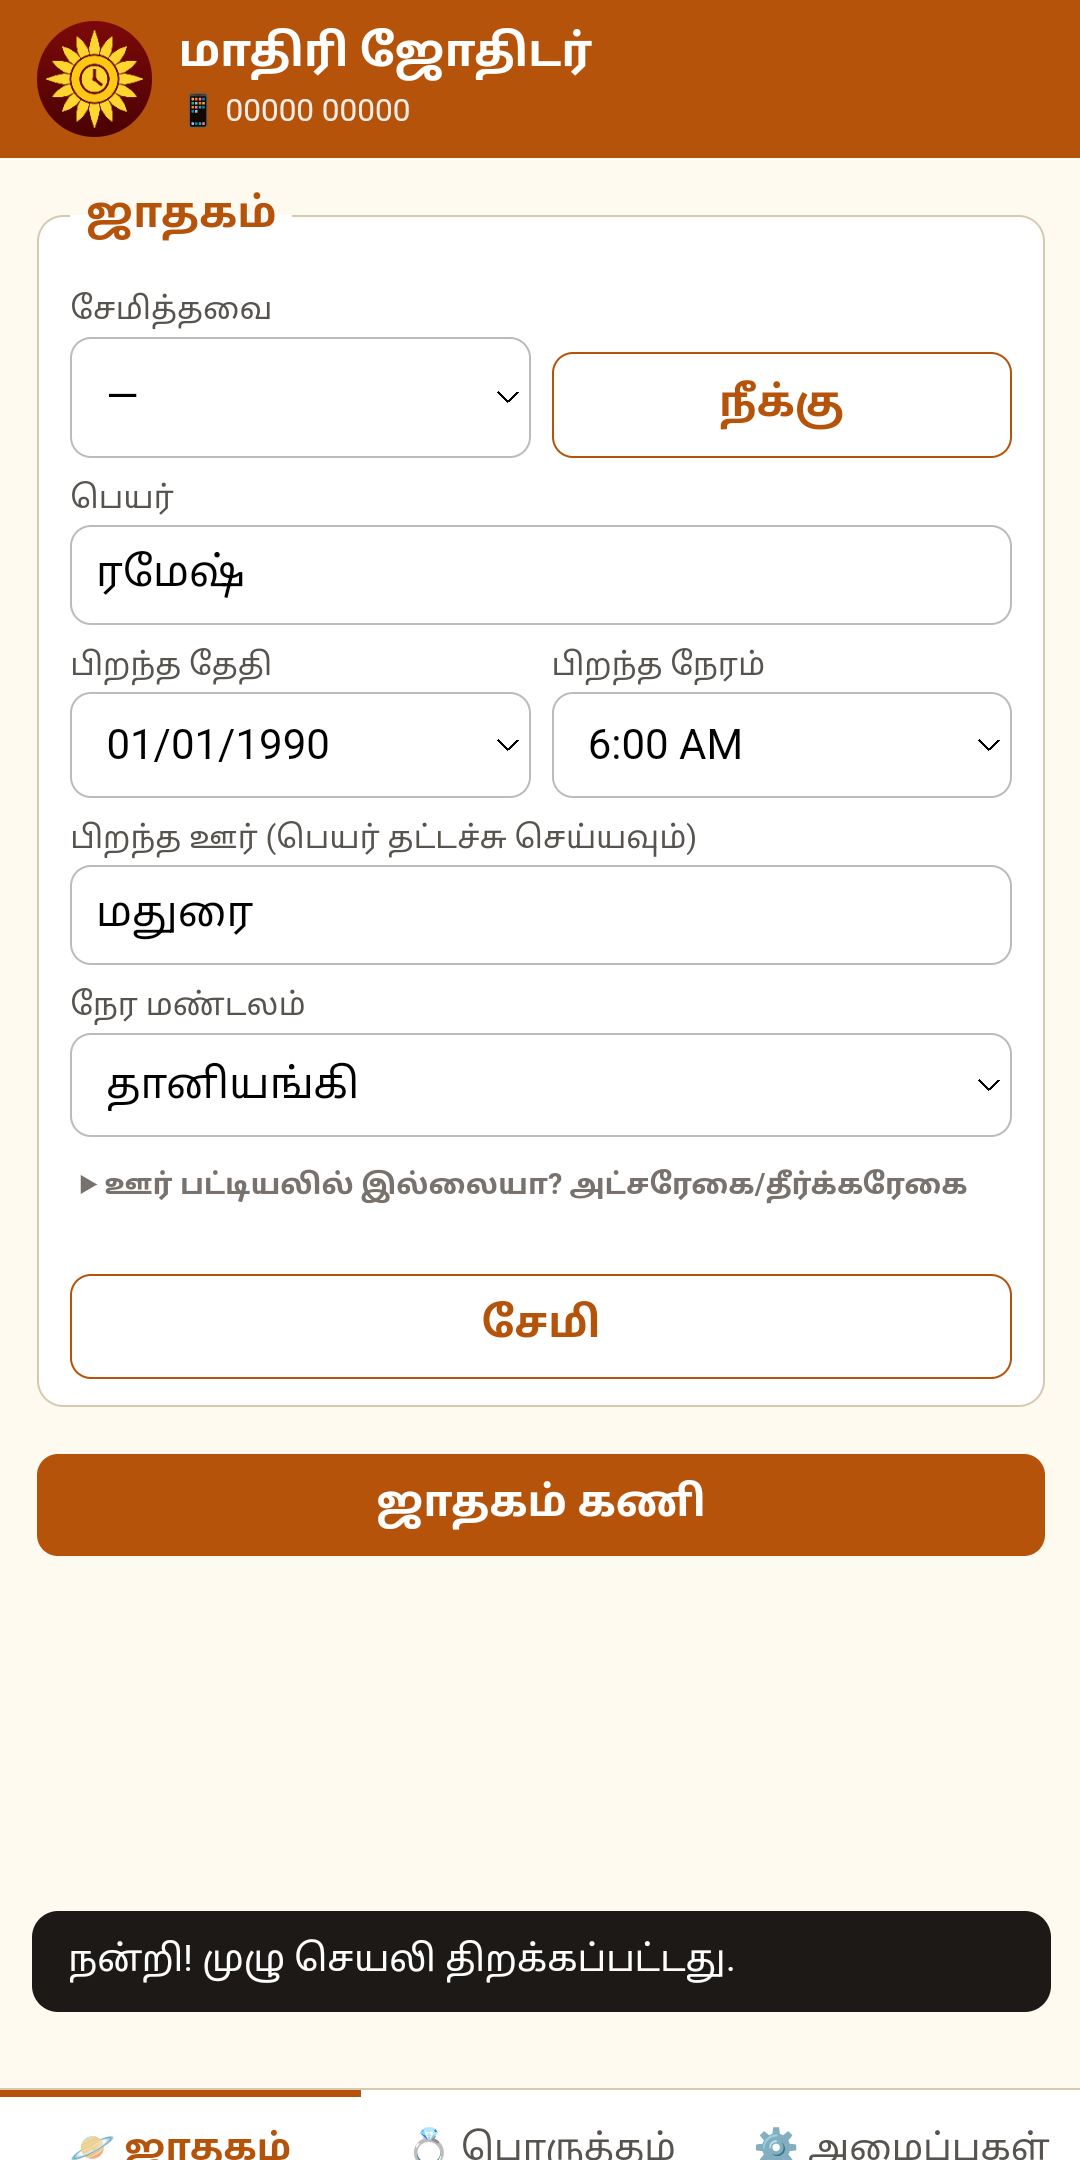
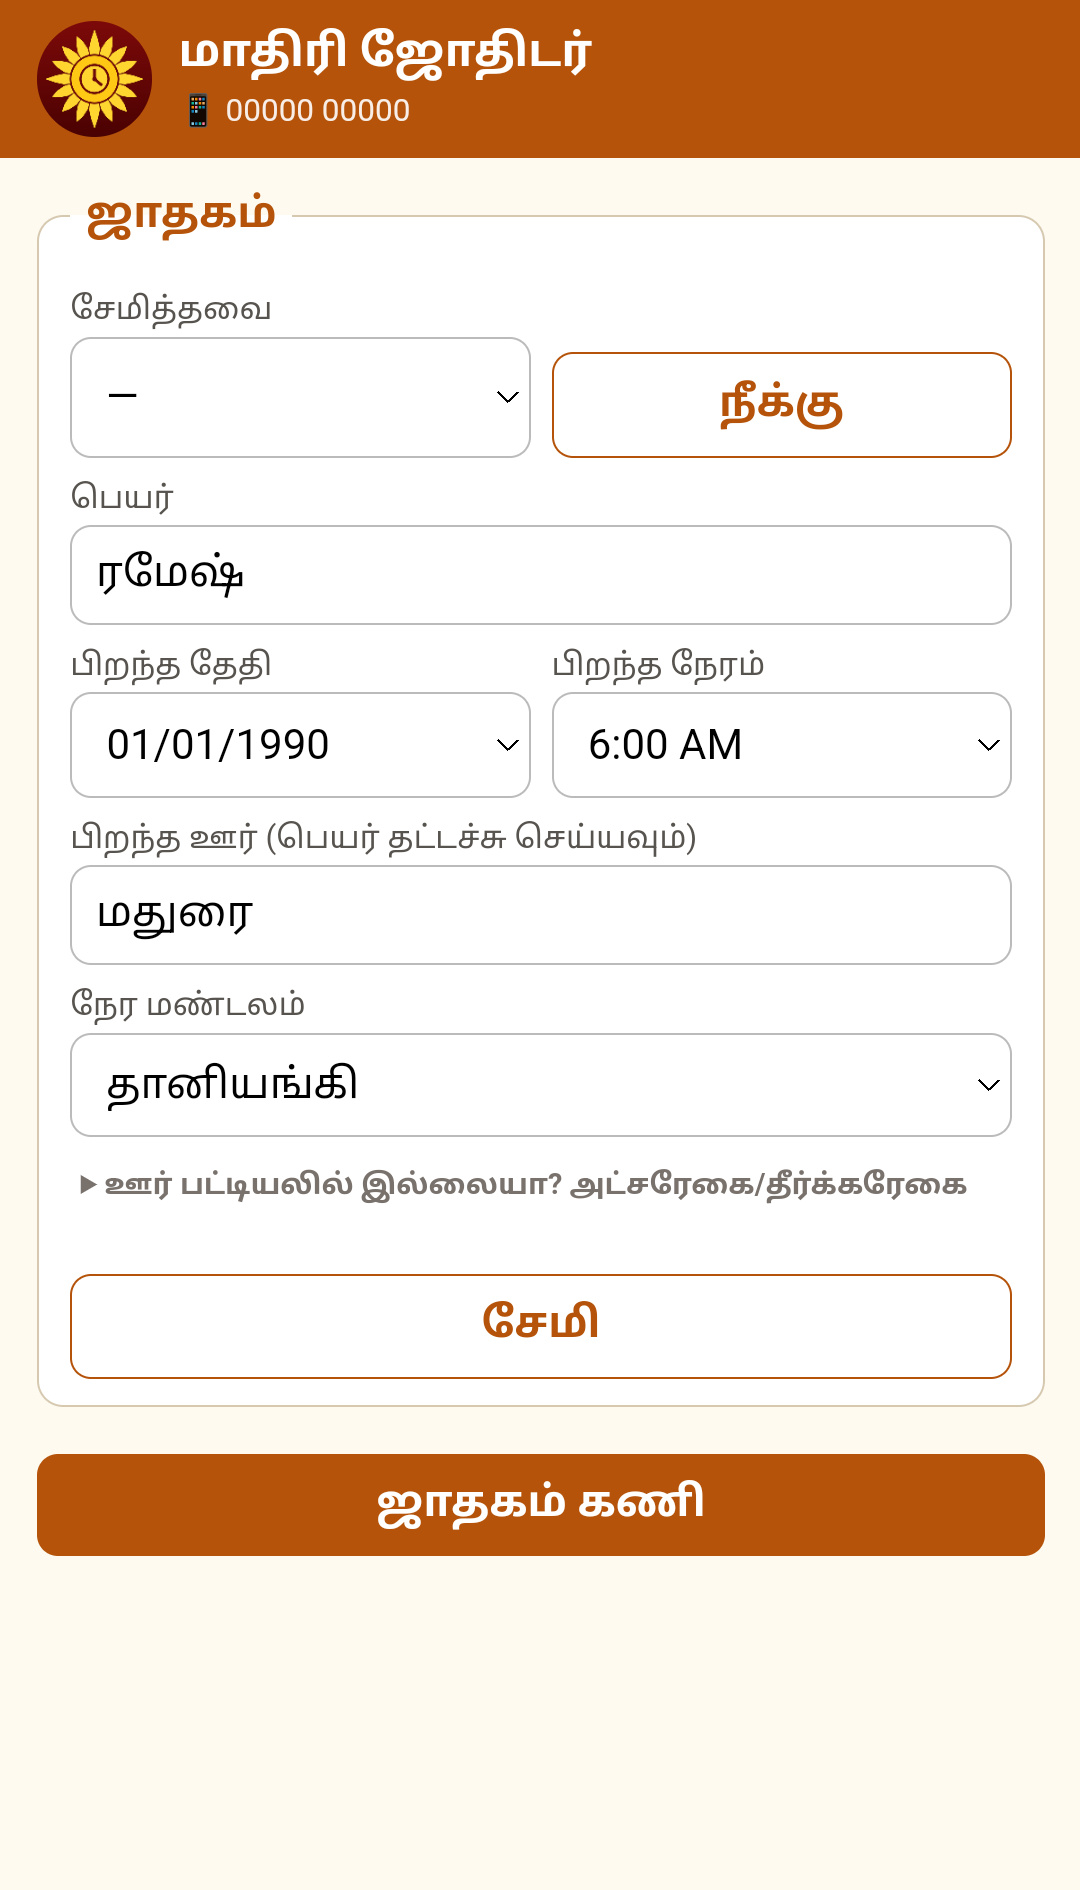
Fix landing page phone frames: size from image, crop tab bar/toast, drop weak settings shot

diff --git a/docs/index.html b/docs/index.html
@@ -71,8 +71,8 @@ nav .links a:hover{color:#fff}
 .cta{display:flex;flex-wrap:wrap;gap:12px}
 
 /* phone */
-.phone{position:relative;width:min(280px,72vw);margin:0 auto;aspect-ratio:1/2;border-radius:40px;padding:9px;background:#0a0818;border:2px solid #3a3466;box-shadow:0 30px 80px rgba(0,0,0,.5),0 0 0 8px rgba(255,255,255,.04)}
-.phone img{width:100%;height:100%;object-fit:cover;object-position:top;border-radius:32px;display:block}
+.phone{position:relative;width:min(280px,72vw);margin:0 auto;padding:10px;border-radius:40px;background:#0a0818;border:2px solid #3a3466;box-shadow:0 30px 80px rgba(0,0,0,.5),0 0 0 8px rgba(255,255,255,.04)}
+.phone img{display:block;width:100%;height:auto;border-radius:30px;background:#fff}
 .hero .phone{transform:rotate(3deg)}
 
 /* sections */
@@ -199,7 +199,6 @@ footer{border-top:1px solid var(--line);padding:32px 0;color:var(--mute);font-si
       <figure class="shot" style="margin:0"><div class="phone"><img src="3-jathagam-form.png" alt="Jathagam form · ஜாதகப் படிவம்" loading="lazy"></div>Enter details<span class="ta">விவரங்கள்</span></figure>
       <figure class="shot" style="margin:0"><div class="phone"><img src="4-jathagam-report.png" alt="Jathagam report · ஜாதக அறிக்கை" loading="lazy"></div>Jathagam report<span class="ta">ஜாதக அறிக்கை</span></figure>
       <figure class="shot" style="margin:0"><div class="phone"><img src="6-porutham-result.png" alt="Porutham result · பொருத்த முடிவு" loading="lazy"></div>Porutham result<span class="ta">பொருத்த முடிவு</span></figure>
-      <figure class="shot" style="margin:0"><div class="phone"><img src="8-settings-logo-customise.png" alt="Logo and business details · லோகோ, தொழில் விவரங்கள்" loading="lazy"></div>Your logo &amp; details<span class="ta">உங்கள் லோகோ</span></figure>
     </div>
     <p class="center" style="margin-top:12px"><a class="btn pri" href="app/index.html">Try it now – it's free<small>இப்போதே முயற்சிக்கவும் – இலவசம்</small></a></p>
   </div>
